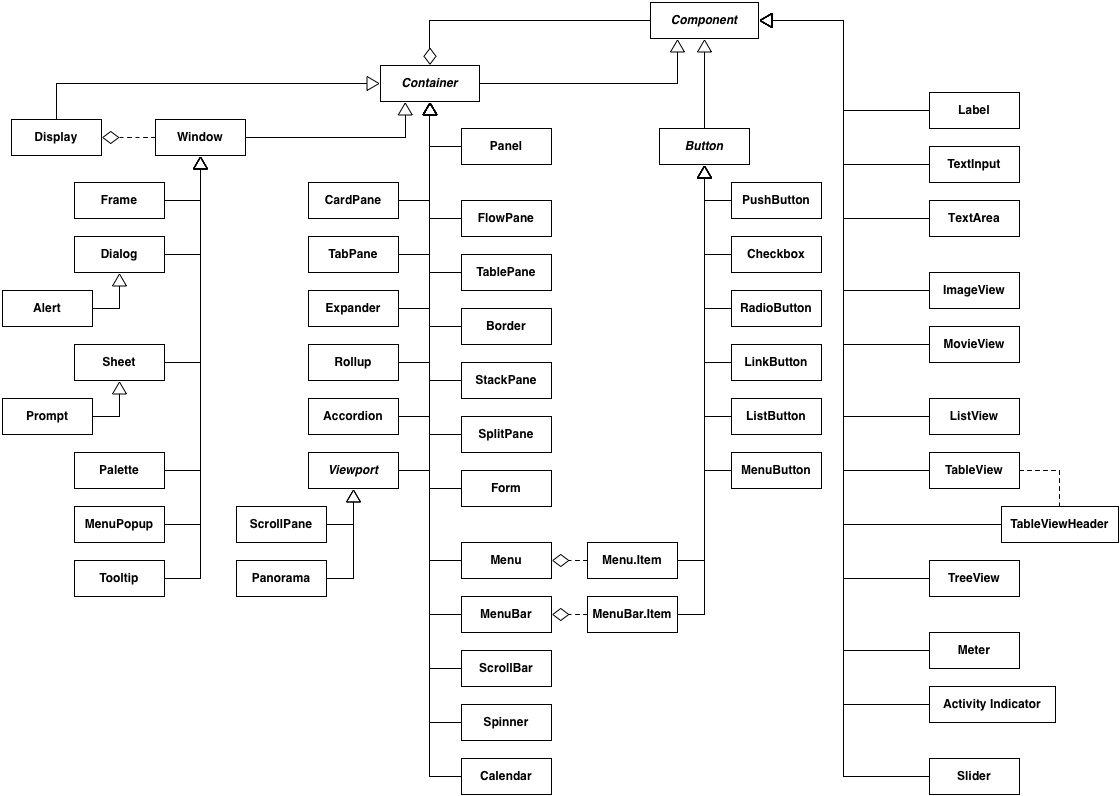
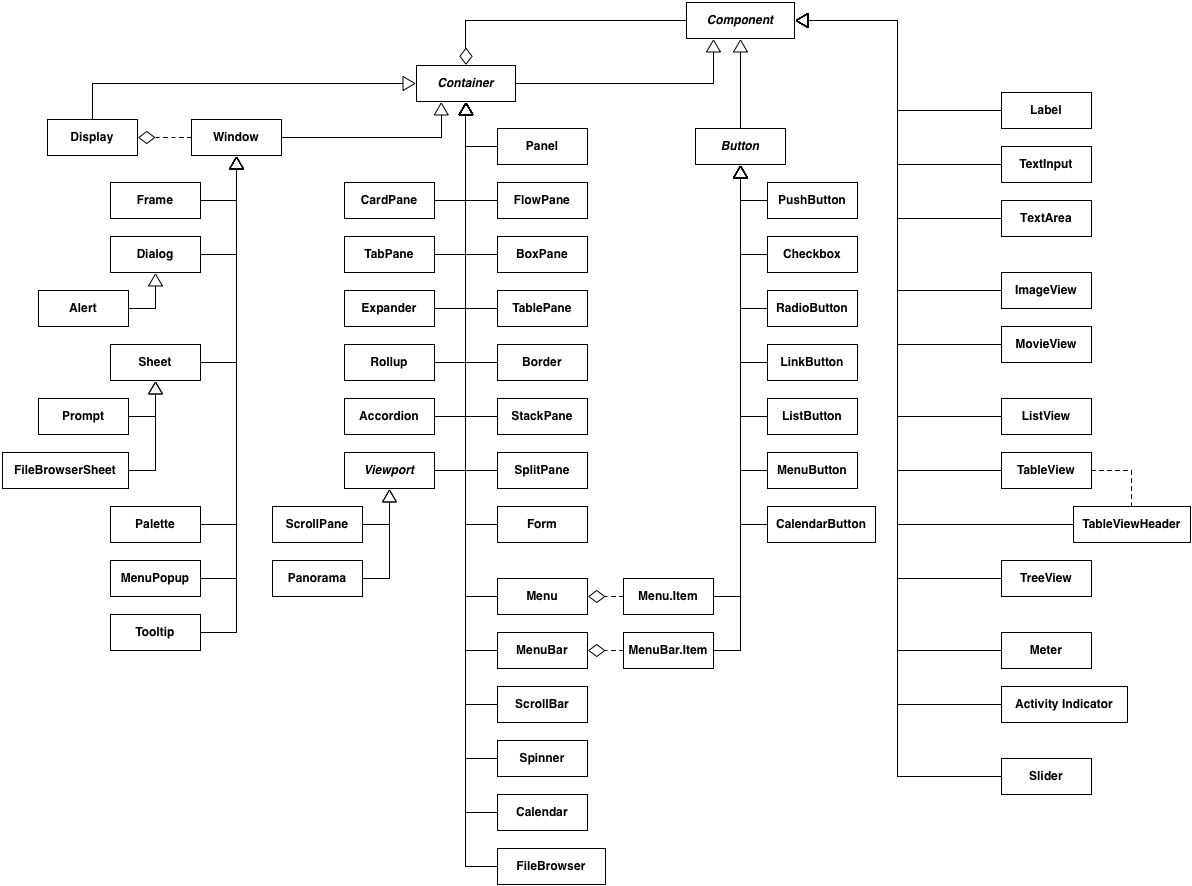
Eliminate FolderBrowser and related classes/interfaces - folder selection can be handled by current FileBrowser design.

diff --git a/tutorials/www/platform_overview.template.html b/tutorials/www/platform_overview.template.html
@@ -144,7 +144,6 @@ limitations under the License.
 <li><p><b>Prompt</b> - A sheet that is generally used to present brief notifications to the user; the sheet equivalent of <tt>Alert</tt>.</p></li>
 <li><p><b>Palette</b> - A floating tool palette window.</p></li>
 <li><p><b>FileBrowserSheet</b> - A file browser sheet.</p></li>
-<li><p><b>FolderBrowserSheet</b> - A folder browser sheet.</p></li>
 <li><p><b>Tooltip</b> - A small, popup-like window that disappears as soon as the user moves the mouse.</p></li>
 </ul>
 
@@ -206,7 +205,6 @@ limitations under the License.
 <li><p><b>MenuBar</b> - Provides access to a collection of sub-menus.</p></li>
 <li><p><b>Calendar</b> - Allows a user to select a date.</p></li>
 <li><p><b>FileBrowser</b> - Allows a user to select a file.</p></li>
-<li><p><b>FolderBrowser</b> - Allows a user to select a folder.</p></li>
 </ul>
 
 <h3>Components</h3>

diff --git a/wtk/src/org/apache/pivot/wtk/skin/terra/TerraTheme.java b/wtk/src/org/apache/pivot/wtk/skin/terra/TerraTheme.java
@@ -40,8 +40,6 @@ import org.apache.pivot.wtk.Expander;
 import org.apache.pivot.wtk.BoxPane;
 import org.apache.pivot.wtk.FileBrowser;
 import org.apache.pivot.wtk.FileBrowserSheet;
-import org.apache.pivot.wtk.FolderBrowser;
-import org.apache.pivot.wtk.FolderBrowserSheet;
 import org.apache.pivot.wtk.Form;
 import org.apache.pivot.wtk.Frame;
 import org.apache.pivot.wtk.Label;
@@ -158,8 +156,6 @@ public final class TerraTheme extends Theme {
         componentSkinMap.put(Expander.class, TerraExpanderSkin.class);
         componentSkinMap.put(FileBrowser.class, TerraFileBrowserSkin.class);
         componentSkinMap.put(FileBrowserSheet.class, TerraFileBrowserSheetSkin.class);
-        componentSkinMap.put(FolderBrowser.class, TerraFolderBrowserSkin.class);
-        componentSkinMap.put(FolderBrowserSheet.class, TerraFolderBrowserSheetSkin.class);
         componentSkinMap.put(Form.class, TerraFormSkin.class);
         componentSkinMap.put(BoxPane.class, TerraBoxPaneSkin.class);
         componentSkinMap.put(Frame.class, TerraFrameSkin.class);
